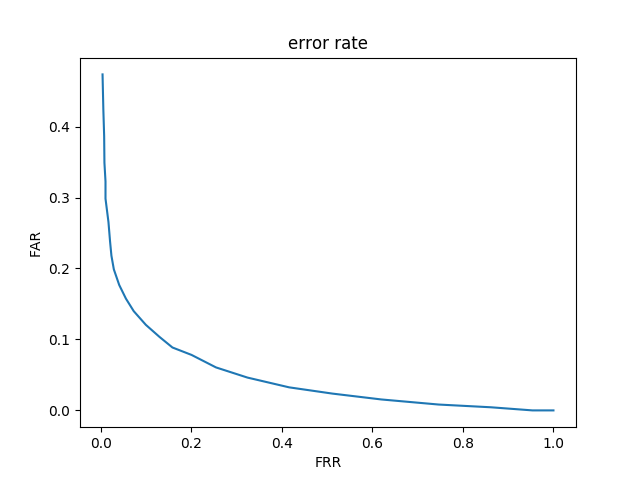
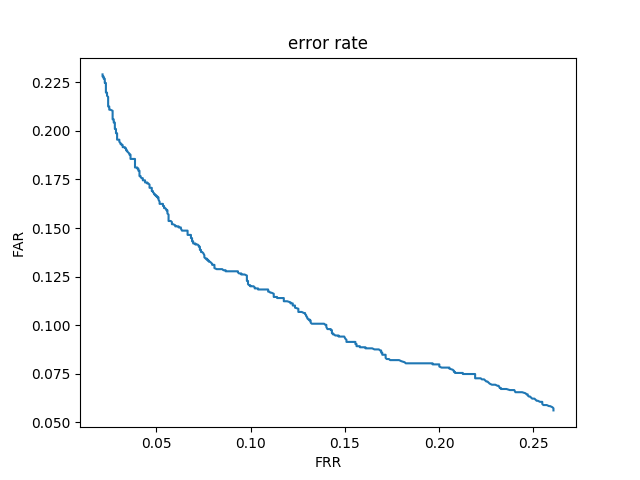
ran verifier

diff --git a/Verifier.py b/Verifier.py
@@ -212,7 +212,7 @@ error_rates = []
 real_T = 0
 i = 0
 ind = 0
-for T in np.linspace(-1,1,50):
+for T in np.linspace(0.3,0.7,1000):
     a = model.predict(x_test[:,0,:,:,:])
     b = model.predict(x_test[:, 1, :, :, :])
     predicted_labels = euclidean_distance(T, a, b)
